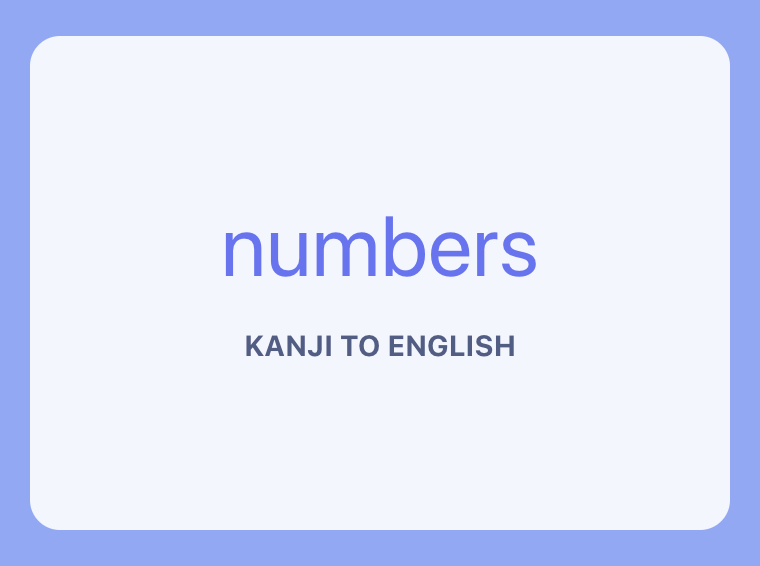
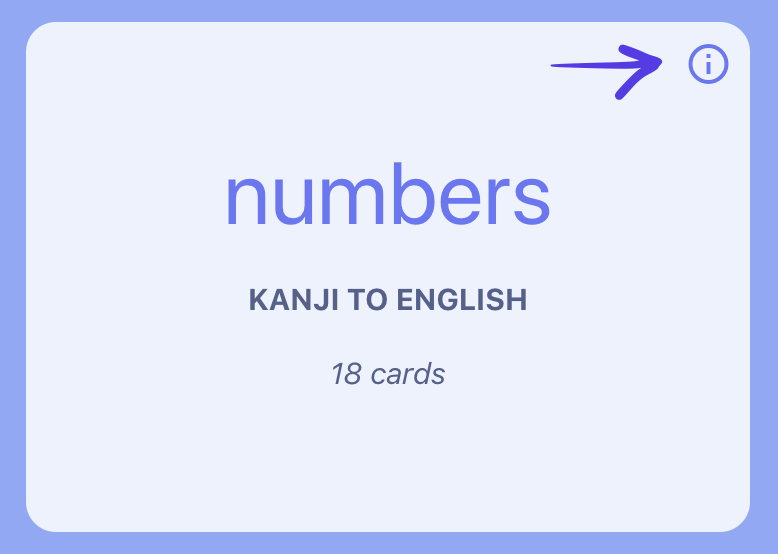
added list of words, some css

Changed region(s): [[0.0303, 0.0307, 0.9684, 0.9819], [0.2724, 0.2762, 0.7263, 0.491], [0.3026, 0.5217, 0.6961, 0.7058]]

diff --git a/src/components/pages/How.js b/src/components/pages/How.js
@@ -10,18 +10,23 @@ class How extends Component {
                     <div className="col s12">
                         <div className="info">
                             <h4 className="center-align">How to use Memji</h4>
-                            <br></br>
-                            <div className="row">
+
+                            <div className="row howto-row">
 								<div className="col s12 m6 l6">
 									<h5 className="">DECKS</h5>
-                                    Click on a deck to start playing. You can either choose a deck with flashcards that go from Kanji to English or picture flashcards. A deck has a category, but since they also contain radicals some words in the categories doesn't have anything to do with the category itself. 
+                                    Each deck has a category and type. The info button in the top corner of each deck shows
+                                    all radicals and kanji in a deck. 
+                                    
+                                    <br/>
+                                    <b > NB! </b> Since the app shows radicals that a kanji are made up of before the kanji itself, some radicals in the
+                                    decks has nothing to do with the category of the deck. 
 								</div>
 								<div className="col s12 m6 l6  center-align">
 									<img className="activator logoimg" src="img/numdeck.png" alt="Memji logo" />{' '}
 								</div>
 							</div>
 
-							<div className="row">
+							<div className="row howto-row">
 								<div className="col s12 m6 l6">
 									<h5 className="">FLASHCARDS - KANJI TO ENGLISH</h5>
 									On the front of the flashcards is a kanji. When hovering (on desktop) or clicking
@@ -41,7 +46,7 @@ class How extends Component {
                                 </div>
 							</div>
 
-							<div className="row">
+							<div className="row howto-row">
 								<div className="col s12 m6 l6">
 									<h5 className="">BUTTONS</h5>
 									If you click the easy button the flashcard wont appear again until deck is
@@ -53,8 +58,7 @@ class How extends Component {
 								</div>
 							</div>
 
-                            <br></br>
-                            <div className="row">
+                            <div className="row howto-row">
                                 <div className="col s12 m6 l6">
 									<h5 className="">MNEMONICS</h5>
 									Each flashcard has a mnemonic suggestion. By clicking the pen icon you can make your
@@ -64,9 +68,8 @@ class How extends Component {
 									<img className="activator logoimg" src="img/mnembut.png" alt="Memji logo" />{' '}
 								</div>
 							</div>
-
-                            <br></br>
-                            <div className="row">
+                           
+                            <div className="row howto-row">
                                 <div className="col s12 m6 l6">
 									<h5 className="">STROKE ORDER</h5>
                                     Some flashcards has gifs of the kanjis strokeorder on the back of the flashcards. This shows how the kanji is drawn.
@@ -76,8 +79,8 @@ class How extends Component {
 								</div>
                             </div>
 
-                            <br></br>
-                            <div className="row">
+                     
+                            <div className="row howto-row">
                                 <div className="col s12 m6 l6">
 									<h5 className="">PHOTOFLASHCARDS</h5>
                                     For photoflashcards an image will appear along with four different Kanji. Click a kanji. If correct kanji, the flashcard will flip around where you will see the easy and hard buttons along with information. 
@@ -95,8 +98,8 @@ class How extends Component {
                                 </div>
                             </div>
 
-                            <br></br>
-                            <div className="row">
+                            <br/>
+                            <div className="row howto-row">
                                 <div className="col s12 m12 l12 center startlink">
                                     <button className="btn"><Link to="/" id="beginlink">Start</Link></button>
                                     <br></br>

diff --git a/src/components/decks/Frontpage.js b/src/components/decks/Frontpage.js
@@ -38,7 +38,6 @@ class Frontpage extends Component {
 			user = users.find((u) => u.id === auth.uid);
 		}
 
-		//NB gjør om til /start med må bruke href ellers kommer navbar med??
 		if (!auth.uid) return <Redirect to="/signin" />;
 		
 	
@@ -63,23 +62,16 @@ class Frontpage extends Component {
 									(fcard) => fcard.deckid === deck.id && user.flashcardArray.indexOf(fcard.id) === -1
 								);
 							}
-							if (unfinisheddecks.length > 0) {
+							if (unfinisheddecks.length > 0 && (deck.type === "Images")) {
 								return (
 									<div key={deck.id} className="col s12 m6 l6">
 										<Link to={deck.type === 'Images' ? '/img/' + deck.id : '/' + deck.id} key={deck.id} id="link">
 											<div className="deck not-completed">
-											<Dropdown className="dropdown-content" trigger={<i className="material-icons right">info_outline</i>}>
-													<span>KANJI IN DECK</span>
-													{
-														kanInDeck.map(card => {
-																return (
-																	<span key={card}>{card.kanji}{" - "}{card.eng}</span>
-																)
-															}
-														)
-													}
-													<Divider/>
-													<span>RADICALS IN DECK</span>
+											<Dropdown className="dropdown-content dropdown-content-deck" options={{belowOrigin: true, hover: true, closeOnClick: true}}
+												trigger={<i className="material-icons right">info_outline</i>}>
+													
+													<span className="word-list-title">KANJI IN DECK</span>
+													
 													{
 														radInDeck.map(card => {
 																return (
@@ -104,6 +96,53 @@ class Frontpage extends Component {
 										
 									</div>
 								);
+							} else if(unfinisheddecks.length > 0){
+								return(
+									<div key={deck.id} className="col s12 m6 l6">
+										<Link to={deck.type === 'Images' ? '/img/' + deck.id : '/' + deck.id} key={deck.id} id="link">
+											<div className="deck not-completed">
+											<Dropdown className="dropdown-content dropdown-content-deck" options={{belowOrigin: true, hover: true, closeOnClick: true}}
+												trigger={<i className="material-icons right">info_outline</i>}>
+													
+													<span className="word-list-title">KANJI IN DECK</span>
+													{
+														kanInDeck.map(card => {
+																return (
+																	<span key={card}>{card.kanji}{" - "}{card.eng}</span>
+																)
+															}
+														)
+													}
+
+													<Divider/>
+													
+													<span className="word-list-title">RADICALS IN DECK</span>
+													{
+														radInDeck.map(card => {
+																return (
+																	<span key={card}>{card.kanji}{" - "}{card.eng}</span>
+																)
+															}
+														)
+													}
+				
+												</Dropdown>
+												<div className="deck-content">
+												
+													<DeckInfo deck={deck} />
+													<p className="decktypetxt">{deck.type}</p>
+													<p className="completionstat">{cardsInDeck.length}{" cards"}</p>
+														
+												</div>
+												
+												
+											</div>
+										</Link>
+										
+									</div>
+								
+								)
+
 							} else {
 								return (
 									<div key={deck.id} className="col s12 m6 l6">

diff --git a/src/components/pages/Startpage.js b/src/components/pages/Startpage.js
@@ -1,31 +1,44 @@
 import React, { Component } from 'react';
+import { Redirect } from 'react-router-dom';
+import { connect } from 'react-redux';
+
 
 class Startpage extends Component {
 	render() {
+		const { auth } = this.props; 
+		if (auth.uid) return <Redirect to="/" />;
+
 		return (
 			<div className="startpage center">
 				<div className="row tester">
 					<div className="col s12">
 						<div className="s-content">
 							<div className="row">
+
 								<div className="col s12 m6 l5">
 									<img src="img/memjilogo.png" alt="logo" />
 								</div>
 
 								<div className="col s12 m6 l7 ">
-									<div className="s-title">Learn Kanji with flashcards</div>
+									<div className="s-title">
+										Learn Kanji with flashcards
+									</div>
+
 									<div className="s-text">
 										Memji focuses on learning Kanji by learning the radicals that kanjis are built
 										up of.
 									</div>
+
 									<br />
 									<a href="/signup">
 										<button className="btn startpage-btn">Sign up</button>
 									</a>
+
 									<a href="/signin">
-										<button className="btn startpage-btn">Sign in</button>
+										<button className="btn startpage-btn">Log in</button>
 									</a>
 								</div>
+
 							</div>
 						</div>
 					</div>
@@ -35,4 +48,11 @@ class Startpage extends Component {
 	}
 }
 
-export default Startpage;
+const mapStateToProps = (state) => {
+	return {
+		auth: state.firebase.auth
+	};
+};
+
+export default connect(mapStateToProps)(Startpage);
+

diff --git a/src/CSS/frontpage.css b/src/CSS/frontpage.css
@@ -6,6 +6,7 @@
 }
 
 .frontpage-content {
+  /*padding-top: 25px;*/
   max-width: 52rem;
   min-width: 20rem;
   padding: 5px;
@@ -50,7 +51,7 @@
   width: 100%;
   /*background-color: lightgray;*/
 }
-/*
+
 .not-completed {
   
 }
@@ -84,26 +85,39 @@
   opacity: 1 !important;
 }
 
-.dropdown-content li>a, .dropdown-content li>span {
+
+.dropdown-content-deck li>a, .dropdown-content-deck li>span {
   color: black !important;
   pointer-events: none;
   cursor: none;
 }
+
 
 .li {
   cursor: help;
 
 }
 
-.dropdown-content li {
+/*
+.dropdown-trigger {
+  cursor: help !important;
+}
+*/
+
+.word-list-title{
+  text-transform: capitalize;
+  font-weight: bold;
+}
+
+
+.dropdown-content-deck li {
   cursor: auto;
   opacity: 1px;
   pointer-events: none !important;
 }
 
-.dropdown-content:hover {
-  cursor: auto !important;
-  pointer-events: none;
-}
 
-*/
+.dropdown-content-deck:hover {
+  cursor: auto !important;
+  /*pointer-events: none;*/
+}

diff --git a/src/App.js b/src/App.js
@@ -6,9 +6,9 @@ import SignUp from './components/auth/SignUp'
 import Frontpage from './components/decks/Frontpage'
 import Flashcards from './components/flashcards/Flashcards'
 import PhotoFlashcards from './components/flashcards/PhotoFlashcards'
-import Startpage from './components/startpage/Startpage'
-import About from './components/layout/About'
-import How from './components/layout/How'
+import Startpage from './components/pages/Startpage'
+import About from './components/pages/About'
+import How from './components/pages/How'
 
 class App extends Component {
   render() {

diff --git a/src/CSS/info.css b/src/CSS/info.css
@@ -18,6 +18,11 @@
 
 }
 
+.howto-row {
+    margin-top: 1rem;
+    margin-bottom: 1rem;
+}
+
 .fcimg{
     max-width: 10rem;
 }
